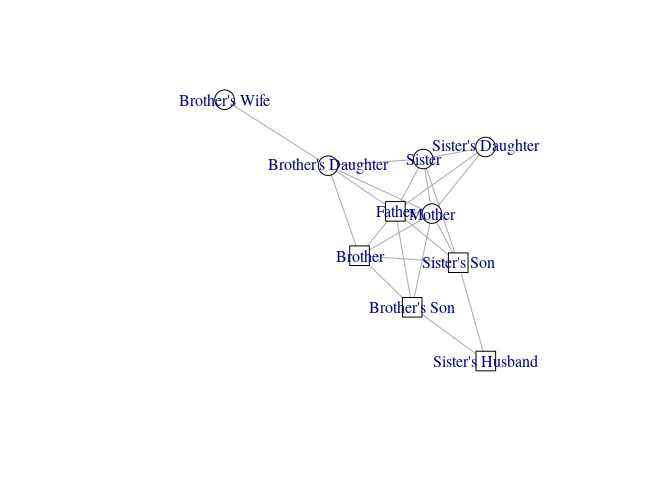
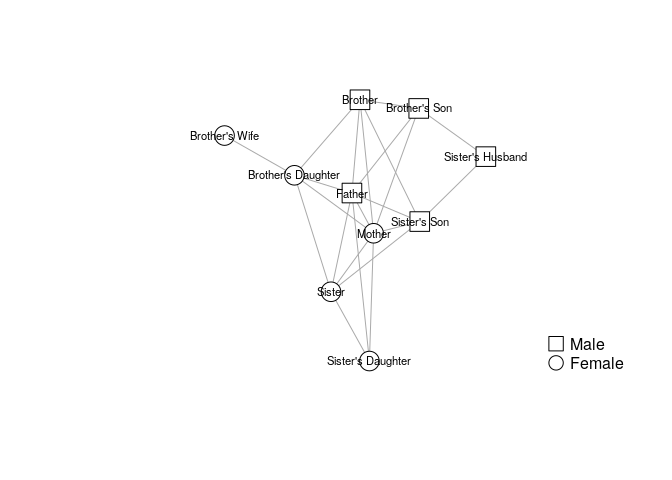
Improve README plot of White's data

diff --git a/README.md b/README.md
@@ -30,7 +30,8 @@ remotes::install_github("mbojan/netseg")
 
 ## Example
 
-To illustrate, consider the network below which comes from White (1975)
+To illustrate, consider the network below which comes from Freeman
+(1978) who took it from White (1975)
 
 ``` r
 library(netseg)
@@ -48,8 +49,19 @@ data("WhiteKinship")
 
 plot(
   WhiteKinship,
+  layout = graphlayouts::layout_with_stress,
   vertex.color = "white",
+  vertex.label.family = "sans",
+  vertex.label.cex = 0.7,
+  vertex.label.color = "black",
   vertex.shape = c("circle", "square")[match(V(WhiteKinship)$gender, c("female", "male"))]
+)
+legend(
+  "bottomright",
+  pch = 0:1,
+  legend = c("Male", "Female"),
+  pt.cex = 2,
+  bty = "n"
 )
 ```
 
@@ -75,6 +87,10 @@ ssi(WhiteKinship, "gender")
 
 Bojanowski, M., & Corten, R. (2014). Measuring segregation in social
 networks. *Social Networks*, 39, 14-32.
+<doi:10.1016/j.socnet.2014.04.001>
+
+Freeman, L. C. (1978). Segregation in social networks. Sociological
+Methods & Research, 6(4), 411-429. <doi:10.1177/004912417800600401>
 
 White, D. R. (1975) “Communicative Avoidance in Social Networks”.
 University of California, Irvine. (mimeo)
